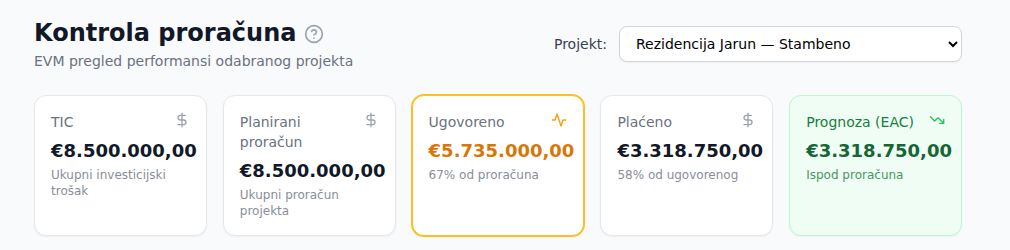
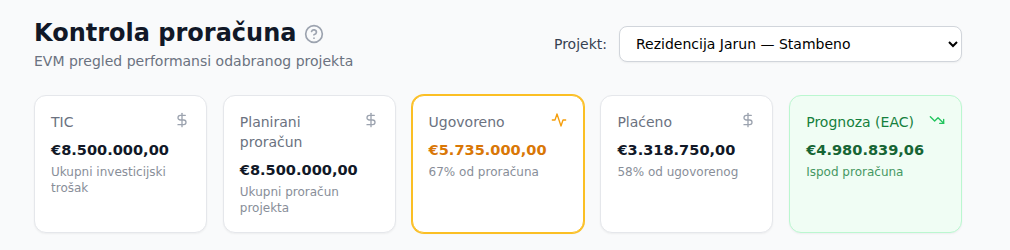
fix: EVM for an unphased plan over several phases; amounts fit their cards at laptop width
- GEN-22: an unphased TIC leaves the whole budget on phase 1. Measured phase by
  phase, that budget counted as earned once phase 1 was finished, so CPI was far
  above 1 and the forecast equalled paid-to-date. With one funded phase among
  several, the project is now measured as a single phase over its whole span
- UI-11: Budget Control summary cards and the Companies Izdano/Plaćeno tiles use
  the stat-card sizing, so a long amount shrinks instead of crossing the edge
- Budget Control help screenshot retaken; backlog entries closed

diff --git a/src/utils/evm.ts b/src/utils/evm.ts
@@ -81,7 +81,8 @@ export function calculatePhaseEVM(
 export function calculateProjectEVM(
   phases: Phase[],
   contracts: ContractWithDetails[],
-  milestones: MilestoneProgress[] = []
+  milestones: MilestoneProgress[] = [],
+  currentDate: Date = new Date()
 ): EVMMetrics {
   let totalPV = 0, totalEV = 0, totalAC = 0, totalBudget = 0
   let scheduledPhases = 0
@@ -93,11 +94,36 @@ export function calculateProjectEVM(
     else milestonesByContract.set(m.contract_id, [m])
   })
 
-  phases.forEach(phase => {
-    // Join on phase_id, not phase_name. Names are not unique — every project now has a phase
-    // called "Faza 1" — so a name-keyed filter silently pulled in other projects' contracts and,
-    // within a project, could not tell two same-named phases apart.
-    const phaseContracts = contracts.filter(c => c.phase_id === phase.id)
+  // An unphased TIC puts the whole plan on the first phase and nothing on the others (see
+  // sync_project_from_tic). Taken phase by phase, the whole budget would then count as earned
+  // the day that one phase is finished, against what was paid in all of them — a CPI far above 1
+  // and a forecast equal to paid-to-date (GEN-22). The plan does not distinguish the phases, so
+  // neither does the measurement: the project is one phase running from the first start date to
+  // the last end date, holding every phase's contracts.
+  const funded = phases.filter(phase => Number(phase.budget_allocated) > 0)
+  const phaseIds = new Set(phases.map(phase => phase.id))
+  const unphasedPlan = phases.length > 1 && funded.length === 1
+
+  const starts = phases.map(phase => phase.start_date).filter((date): date is string => !!date).sort()
+  const ends = phases.map(phase => phase.end_date).filter((date): date is string => !!date).sort()
+  const measured = unphasedPlan
+    ? [{
+        budget: Number(funded[0].budget_allocated),
+        contracts: contracts.filter(c => c.phase_id != null && phaseIds.has(c.phase_id)),
+        start: starts[0] ?? null,
+        end: ends[ends.length - 1] ?? null,
+      }]
+    : phases.map(phase => ({
+        budget: Number(phase.budget_allocated),
+        // Join on phase_id, not phase_name. Names are not unique — every project now has a phase
+        // called "Faza 1" — so a name-keyed filter silently pulled in other projects' contracts
+        // and, within a project, could not tell two same-named phases apart.
+        contracts: contracts.filter(c => c.phase_id === phase.id),
+        start: phase.start_date ?? null,
+        end: phase.end_date ?? null,
+      }))
+
+  measured.forEach(({ budget, contracts: phaseContracts, start, end }) => {
     const phaseCommitted = phaseContracts.reduce((sum, c) => sum + Number(c.contract_amount || 0), 0)
     const phaseAC = phaseContracts.reduce((sum, c) => sum + Number(c.budget_realized || 0), 0)
     // Physical completion = contract-value-weighted average of each contract's
@@ -117,21 +143,14 @@ export function calculateProjectEVM(
     // perfectly on-track project, regardless of reality, with nothing to indicate the figures
     // were not computed. Splitting them keeps the cost side honest and confines the gap to the
     // schedule side, which `scheduleAvailable` now reports.
-    totalEV += (Number(phase.budget_allocated) * physicalCompletionPct) / 100
+    totalEV += (budget * physicalCompletionPct) / 100
     totalAC += phaseAC
 
-    if (phase.start_date && phase.end_date) {
+    if (start && end) {
       scheduledPhases += 1
-      const phaseMetrics = calculatePhaseEVM(
-        Number(phase.budget_allocated),
-        physicalCompletionPct,
-        phase.start_date,
-        phase.end_date,
-        phaseAC
-      )
-      totalPV += phaseMetrics.PV
+      totalPV += calculatePhaseEVM(budget, physicalCompletionPct, start, end, phaseAC, currentDate).PV
     }
-    totalBudget += Number(phase.budget_allocated)
+    totalBudget += budget
   })
 
   // With nothing paid there is no cost performance to report: CPI is not 1, it is unknown.

diff --git a/src/components/Cashflow/Companies/index.tsx b/src/components/Cashflow/Companies/index.tsx
@@ -10,6 +10,10 @@ import { useAuth } from '../../../contexts/AuthContext'
 import { isDirectorRole } from '../../../utils/permissions'
 import { formatEuro } from '../../../utils/formatters'
 
+// The Izdano / Plaćeno tiles sit two to a company card, three cards to a row: at laptop width
+// an eight-digit amount is wider than its tile. `stat-card__value` shrinks it, then wraps (UI-11).
+const TILE_VALUE_SIZE = { '--stat-value-size': '0.875rem' } as React.CSSProperties
+
 const AccountingCompanies: React.FC = () => {
   const { t } = useTranslation()
   const { user } = useAuth()
@@ -124,21 +128,21 @@ const AccountingCompanies: React.FC = () => {
                 </div>
 
                 <div className="grid grid-cols-2 gap-3">
-                  <div className="bg-green-50 dark:bg-green-900/20 p-3 rounded-lg">
+                  <div className="stat-card bg-green-50 dark:bg-green-900/20 p-2 rounded-lg">
                     <div className="flex items-center mb-1">
                       <ArrowUpCircle className="w-4 h-4 text-green-600 mr-1" />
                       <p className="text-xs text-green-700 dark:text-green-400">{t('companies.card.issued')}</p>
                     </div>
-                    <p className="text-sm font-bold text-green-900 dark:text-green-300">{formatEuro(company.total_income_paid)}</p>
+                    <p className="stat-card__value font-bold text-green-900 dark:text-green-300" style={TILE_VALUE_SIZE}>{formatEuro(company.total_income_paid)}</p>
                     <p className="text-xs text-gray-600 dark:text-gray-400">{t('companies.card.invoices_count', { count: company.total_income_invoices })}</p>
                   </div>
 
-                  <div className="bg-red-50 dark:bg-red-900/20 p-3 rounded-lg">
+                  <div className="stat-card bg-red-50 dark:bg-red-900/20 p-2 rounded-lg">
                     <div className="flex items-center mb-1">
                       <ArrowDownCircle className="w-4 h-4 text-red-600 mr-1" />
                       <p className="text-xs text-red-700 dark:text-red-400">{t('companies.card.paid_out')}</p>
                     </div>
-                    <p className="text-sm font-bold text-red-900 dark:text-red-300">{formatEuro(company.total_expense_paid)}</p>
+                    <p className="stat-card__value font-bold text-red-900 dark:text-red-300" style={TILE_VALUE_SIZE}>{formatEuro(company.total_expense_paid)}</p>
                     <p className="text-xs text-gray-600 dark:text-gray-400">{t('companies.card.invoices_count', { count: company.total_expense_invoices })}</p>
                   </div>
                 </div>

diff --git a/src/utils/evm.test.ts b/src/utils/evm.test.ts
@@ -259,4 +259,53 @@ describe('calculateProjectEVM', () => {
     expect(m.AC).toBe(10000)
     expect(m.EV).toBe(100000)
   })
+
+  // GEN-22. An unphased TIC leaves the whole budget on phase 1 and zero on the rest.
+  describe('an unphased plan over several phases', () => {
+    const now = new Date('2026-07-01T00:00:00.000Z')
+    const phases = [
+      phase({ id: 'ph-1', budget_allocated: 1000, start_date: '2026-01-01', end_date: '2026-03-31' }),
+      phase({ id: 'ph-2', budget_allocated: 0, start_date: '2026-04-01', end_date: '2026-12-31' }),
+    ]
+    // Phase 1 is finished and paid; phase 2 is a quarter paid.
+    const contracts = [
+      contract({ id: 'c1', phaseId: 'ph-1', contract_amount: 200, budget_realized: 200 }),
+      contract({ id: 'c2', phaseId: 'ph-2', contract_amount: 600, budget_realized: 150 }),
+    ]
+
+    it('does not count the whole budget as earned because the first phase is finished', () => {
+      const m = calculateProjectEVM(phases, contracts, [], now)
+      // (200×100% + 600×25%) / 800 = 43,75% of the 1000 plan
+      expect(m.EV).toBeCloseTo(437.5)
+      expect(m.AC).toBe(350)
+      expect(m.CPI).toBeCloseTo(1.25)
+      // and so the forecast is not simply what has been paid so far
+      expect(m.EAC).toBeCloseTo(800)
+      expect(m.EAC).not.toBeCloseTo(m.AC)
+    })
+
+    it('measures the schedule over the whole project, not over the first phase', () => {
+      const m = calculateProjectEVM(phases, contracts, [], now)
+      // 1 Jan to 31 Dec, seen on 1 Jul: about half the plan should be done, not all of it
+      expect(m.scheduleAvailable).toBe(true)
+      expect(m.PV).toBeGreaterThan(480)
+      expect(m.PV).toBeLessThan(520)
+    })
+
+    it('uses the project span for the schedule even before the later phases have contracts', () => {
+      const m = calculateProjectEVM(phases, [contracts[0]], [], now)
+      expect(m.PV).toBeGreaterThan(480)
+      expect(m.PV).toBeLessThan(520)
+    })
+
+    it('leaves a phased plan alone', () => {
+      const phased = [
+        phase({ id: 'ph-1', budget_allocated: 400, start_date: '2026-01-01', end_date: '2026-03-31' }),
+        phase({ id: 'ph-2', budget_allocated: 600, start_date: '2026-04-01', end_date: '2026-12-31' }),
+      ]
+      const m = calculateProjectEVM(phased, contracts, [], now)
+      // 400×100% + 600×25%
+      expect(m.EV).toBeCloseTo(550)
+    })
+  })
 })

diff --git a/src/components/General/BudgetControl/index.tsx b/src/components/General/BudgetControl/index.tsx
@@ -458,12 +458,19 @@ function MetricCard({ label, sublabel, value, icon: Icon, variant }: MetricCardP
   const s = styles[variant]
 
   return (
-    <div className={`rounded-xl border p-4 shadow-sm ${s.container}`}>
+    // `stat-card` / `stat-card__value` (index.css): the figure shrinks with the card and then
+    // wraps, instead of running past the edge when five cards share a laptop window (UI-11).
+    <div className={`stat-card rounded-xl border p-4 shadow-sm ${s.container}`}>
       <div className="flex items-start justify-between mb-2">
         <p className={`text-sm font-medium ${s.label}`}>{label}</p>
         <Icon className={`w-4 h-4 ${s.icon} flex-shrink-0`} />
       </div>
-      <p className={`text-lg font-bold ${s.value} leading-tight`}>{value}</p>
+      <p
+        className={`stat-card__value font-bold ${s.value}`}
+        style={{ '--stat-value-size': '1.125rem' } as React.CSSProperties}
+      >
+        {value}
+      </p>
       <p className={`text-xs mt-1 ${s.label} opacity-80`}>{sublabel}</p>
     </div>
   )

diff --git a/docs/backlog/projects-dashboards-reports.md b/docs/backlog/projects-dashboards-reports.md
@@ -6,12 +6,6 @@ are in [README.md](./README.md).
 
 ## Open
 
-### GEN-22 · Medium · With an unphased TIC and several phases, Budget Control credits the whole budget to phase 1
-- **Check:** Confirmed by code reading and on LandmarkDemo ("Rezidencija Jarun", 2026-10-12); the figures on screen match the arithmetic below exactly. Not checked against production: it applies to any project whose TIC has no phase columns but which has more than one phase with contracts.
-- **Where:** `sync_project_from_tic` (`20260909140000_tic_sole_budget_source.sql`, "Unphased TIC: one phase holds the whole plan") puts the full budget on phase 1 and 0 on the others; `calculateProjectEVM` (`src/utils/evm.ts`) earns value per phase as `budget_allocated × physical %`.
-- **What happens:** earned value is the whole project budget times phase 1's completion, while cost is what was paid in every phase. On the demo: phase 1 is complete and holds €8,5M, so EV = €8,5M against €3,32M paid across four phases. CPI = 2,56 ("healthy"), and EAC = budget / CPI comes out equal to the amount paid so far (€3.318.750,00, "Ispod proračuna") on a project with €5,7M already contracted. Once phase 1 is complete the forecast always equals paid-to-date. The phase list shows the same split: "Plaćeno €335.000 / €8.500.000" on phase 1 and "Budžet nije postavljen" on the rest.
-- **Fix direction:** when no phase beyond the first has a budget, compute EVM at project level (project budget × contract-weighted physical % over all contracts) instead of summing per phase; or have the trigger leave every phase at 0 for an unphased TIC so the screens say "nije fazirano". The first is client-only. The unreadable top axis label that drew attention to this is GEN-7.
-
 ### GEN-21 · Low · Projects list shows a failed load as an Alert in the content area
 - **Where:** `General/Projects/index.tsx:117`.
 - **Fix direction:** `ErrorState` with `refetch`. Part of UI-4 in [ui.md](./ui.md).
@@ -57,6 +51,9 @@ are in [README.md](./README.md).
   generators that print it.
 
 ## Resolved
+
+### GEN-22 · Medium · With an unphased TIC and several phases, Budget Control credits the whole budget to phase 1
+- Fixed on `feat/user-guidance-phase-3` (2026-10-12): when only one of several phases carries a budget, `calculateProjectEVM` measures the project as one phase from the first start date to the last end date, holding every phase's contracts. Tested in `src/utils/evm.test.ts`. The trigger is unchanged, so the phase list still shows the whole budget on phase 1.
 
 ### GEN-15 · Low · Supervision dashboard display polish (was DASH-605)
 - Closed on `fix/backlog-batch-3` (2026-10-08): "no deadline" is `null`, tested in `dashboards/utils/supervisionDeadlines.ts`.

diff --git a/docs/backlog/ui.md b/docs/backlog/ui.md
@@ -10,13 +10,6 @@ again before starting a sweep. Check [../UI.md](../UI.md) before adding a primit
 
 ## Open
 
-### UI-11 · Low · Amounts run past their card at laptop width on Budget Control and Companies
-- **Check:** Confirmed in a browser at 1280×800 with the menu open (LandmarkDemo, 2026-10-12, while taking the help screenshots).
-- **Where:** `MetricCard` at the bottom of `General/BudgetControl/index.tsx` (five summary cards); the "Izdano" / "Plaćeno" tiles in `Cashflow/Companies/index.tsx` (the `grid grid-cols-2 gap-3` inside each company card).
-- **What happens:** an eight-digit amount (`€12.000.000,00`, `€3.318.750,00`) is drawn over its card's edge.
-- **Cause:** both are hand-built cards with a fixed font size (`text-lg`, `text-sm`) around a string with no break point, and both pick their column count from the *window* width (`xl:grid-cols-5`, `lg:grid-cols-3`) although the open menu takes 256px of it. At 1280px that leaves about 150px for a figure that needs about 160px on Budget Control, and about 100px for one that needs about 108px on Companies. Neither uses `StatCard`, so neither has its shrink-then-wrap rule; UI-8 and CASH-21 fixed the same thing for `StatCard` and for phones only. Collapsing the menu, or a window of roughly 1400px and up, hides it.
-- **Fix direction:** give both values the `.stat-card` container and `.stat-card__value` sizing from `index.css` (shrinks with the card, then wraps), or build them from `StatCard`. Moving the five-column step to `2xl` would only shift the width at which it happens.
-
 ### UI-10 · Low · Shell labels that disagree or are unused
 - **Check:** Code reading (help-article audit, 2026-10-06)
 - Menu label and page title differ on several pages (the help articles now name both).
@@ -96,3 +89,8 @@ again before starting a sweep. Check [../UI.md](../UI.md) before adding a primit
 ### UI-6 · Low · Shared library props that do nothing
 - `Alert` ignores `onClose`; `StatCard` ignores `trend`; `DateInput` ignores `min` / `max`.
 - **Fix direction:** implement the props or remove them.
+
+## Resolved
+
+### UI-11 · Low · Amounts run past their card at laptop width on Budget Control and Companies
+- Fixed on `feat/user-guidance-phase-3` (2026-10-12): both use the `.stat-card` / `.stat-card__value` sizing from `index.css`; measured at 1280×800 on the demo, no figure overflows or wraps.

diff --git a/docs/CORE.md b/docs/CORE.md
@@ -219,7 +219,8 @@ read "Jan 05, 2026".
 
 ### evm.ts
 - `calculatePhaseEVM(plannedBudget, physicalCompletionPct, startDate, endDate, actualCost)` — computes PV, EV, AC, CPI, SPI, CV, SV, EAC, VAC for a single phase using standard EVM formulas
-- `calculateProjectEVM(phases, contracts, milestones = [])` — aggregates phase-level EVM across all phases of a project; contracts join phases on `phase_id`. A phase's `physicalCompletionPct` is the contract-value-weighted average of each contract's milestone-based completion (sum of the `percentage` of its `subcontractor_milestones` that are completed or paid), falling back to `budget_realized / contract_amount` only for a contract with no milestones; maps `Phase.budget_allocated → plannedBudget`, `Phase.start_date / end_date → planned dates`. EV and AC are accumulated for every phase; PV only for dated ones
+- `calculateProjectEVM(phases, contracts, milestones = [], currentDate = new Date())` — aggregates phase-level EVM across all phases of a project; contracts join phases on `phase_id`. A phase's `physicalCompletionPct` is the contract-value-weighted average of each contract's milestone-based completion (sum of the `percentage` of its `subcontractor_milestones` that are completed or paid), falling back to `budget_realized / contract_amount` only for a contract with no milestones; maps `Phase.budget_allocated → plannedBudget`, `Phase.start_date / end_date → planned dates`. EV and AC are accumulated for every phase; PV only for dated ones
+- **Unphased plan:** an unphased TIC leaves the whole budget on phase 1 and zero on the other phases. When only one of several phases carries a budget, the project is measured as a single phase — that budget, every phase's contracts, first start date to last end date — so finishing phase 1 does not count the whole plan as earned (GEN-22)
 - **Returns:** `EVMMetrics` (`PV`, `EV`, `AC`, `CPI`, `SPI`, `CV`, `SV`, `EAC`, `VAC`, plus `scheduleAvailable` — false when no phase has both dates, so SPI = 1 means "unknown" — and `costAvailable`, false while nothing is paid, so CPI = 1 and EAC = budget mean "unknown" too)
 - **Used by:** `BudgetControl/hooks/useBudgetControl.ts`
 - **Depends on:** `Phase`, `ContractWithDetails` from `General/Projects/types.ts`

diff --git a/docs/GUIDANCE_PHASE_3.md b/docs/GUIDANCE_PHASE_3.md
@@ -107,19 +107,22 @@ Not checked: the assistant producing a link in a real answer (needs the function
 hints in the subcontractor form, the link-supplier form, the project form and the Realizirano
 column on screen, English UI, dark mode, and phone width for the new pieces.
 
-## 5. Found and not fixed
+## 5. Found along the way
 
 | Id | What |
 |---|---|
 | UI-11 | Amounts run past their card at laptop width on Budget Control and Companies |
 | GEN-22 | With an unphased TIC and several phases, Budget Control credits the whole budget to phase 1, so CPI and the forecast are wrong |
 
+Both were fixed on this branch afterwards (see the Resolved sections of the backlog files), and
+the Budget Control screenshot was retaken.
+
 Two things first written up here turned out to be known already: the unreadable top label of the
 EVM chart's axis is GEN-7, and the customer's name in the Companies subtitle is GEN-19 (CASH-31
 was opened for it and closed as a duplicate).
 
-These are why there is no screenshot of the Companies page or of the lower half of Budget
-Control. The Cashflow calendar has none because the demo has nothing due this month.
+When the screenshots were taken these were still open, which is why there is none of the
+Companies page or of the lower half of Budget Control. The Cashflow calendar has none because the demo has nothing due this month.
 
 ## 6. Left for later
 

diff --git a/docs/backlog/README.md b/docs/backlog/README.md
@@ -79,7 +79,6 @@ saves on dev.
 |---|---|---|
 | 1 | [CASH-6](./cashflow.md) — cesija-from-credit sign | Allocation usage is wrong for every such payment. Blocked on an accounting decision, not on code. |
 | 2 | [COLLAB-4](./collaboration.md) — AI rate limit miscounts and fails open | Deferred to the voice branch (OQ-3). Do it there. |
-| 3 | [GEN-22](./projects-dashboards-reports.md) — EVM with an unphased TIC | CPI and the forecast are wrong for every multi-phase project whose TIC has no phase columns. Client-only fix available. |
 
 ### 3. Larger work, schedule deliberately
 
